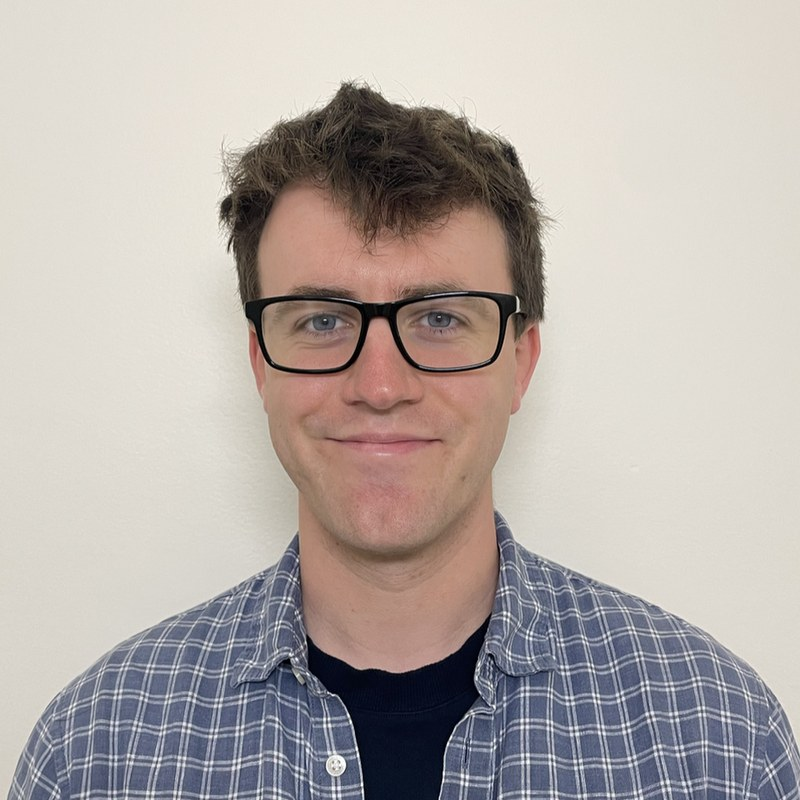
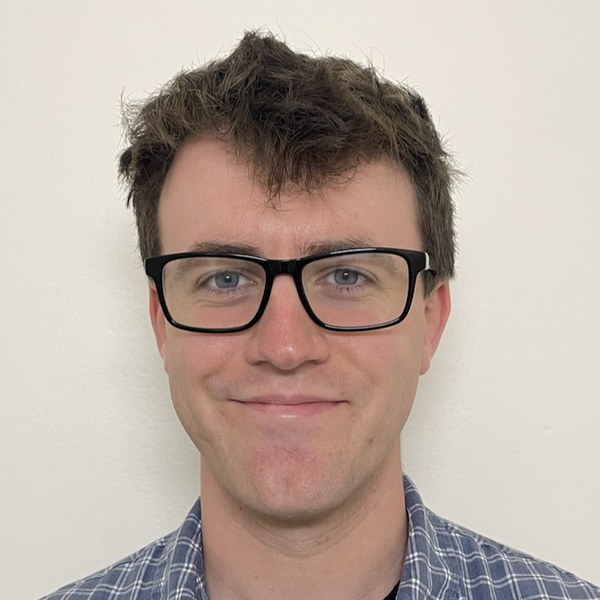
Small round headshot on the right of the home page
Crop the photo tighter around the face, show it as a 170px circle
(110px on phones) floated right of the bio.

Claude-Session: https://claude.ai/code/session_01XearbGE9Hio22omtePDHCe

diff --git a/_pages/about.md b/_pages/about.md
@@ -8,7 +8,7 @@ subtitle: Postdoctoral Researcher · Kavli Institute for Cosmology, University o
 profile:
   align: right
   image: prof_pic.jpg
-  image_circular: false # set to true for a round photo
+  image_circular: true # crops the photo to a circle
 
 selected_papers: false # the full list lives on the research page
 social: true # includes social icons at the bottom of the page
@@ -19,6 +19,12 @@ announcements:
 latest_posts:
   enabled: false
 ---
+
+<style>
+  /* Small round headshot on the right, also on phones */
+  .profile { width: 170px !important; margin: 0 0 0.75rem 1.5rem; }
+  @media (max-width: 575.98px) { .profile { width: 110px !important; float: right !important; margin: 0 0 0.5rem 1rem; } }
+</style>
 
 I'm a postdoctoral researcher at the [Kavli Institute for Cosmology](https://www.kicc.cam.ac.uk), University of Cambridge, working with the groups of Roberto Maiolino and Sandro Tacchella. I study galaxies in the first billion years of the Universe, combining observations from the James Webb Space Telescope and ESO's Very Large Telescope with large-scale cosmological simulations.
 
